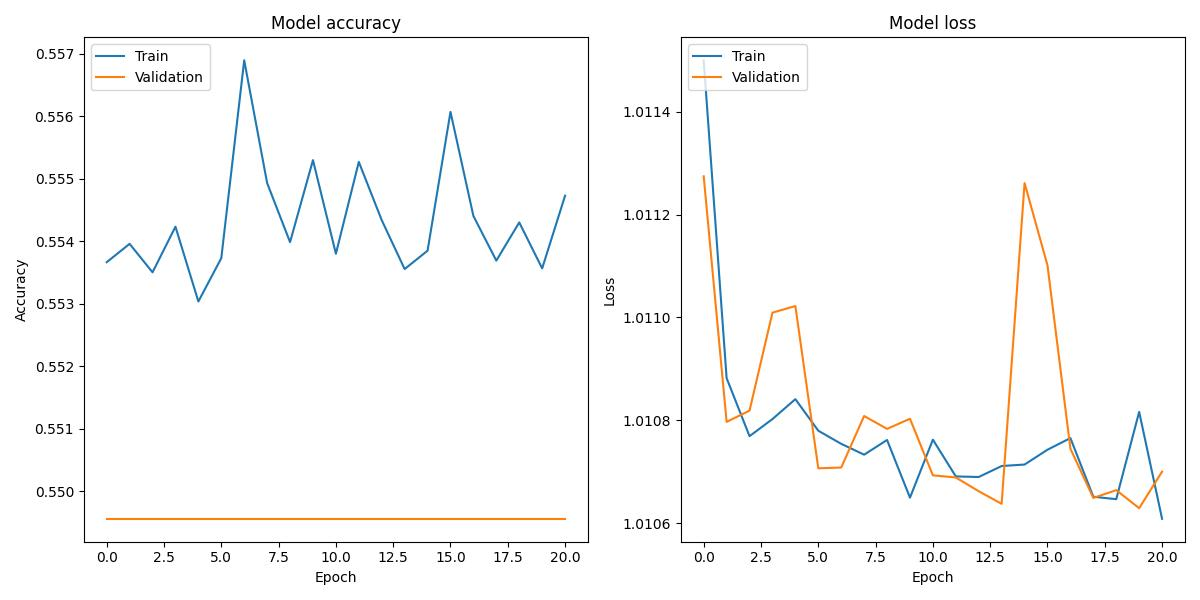
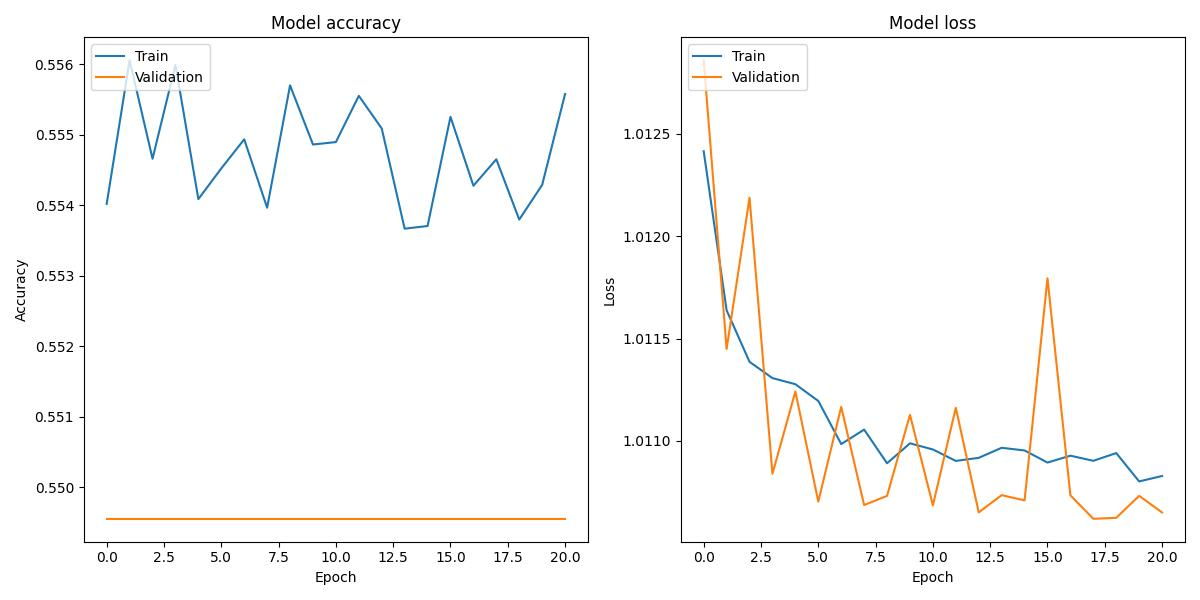
UGH

diff --git a/Assignment2/run_me/tuners.py b/Assignment2/run_me/tuners.py
@@ -4,6 +4,8 @@ from tensorflow.keras.optimizers import Adam, RMSprop
 from tensorflow.keras.losses import BinaryCrossentropy
 from tensorflow.keras.callbacks import ModelCheckpoint, EarlyStopping
 from tensorflow.keras.applications.vgg16 import VGG16
+from tensorflow.keras.callbacks import ReduceLROnPlateau
+from keras_tuner import Objective
 import tensorflow as tf
 import keras_tuner as kt
 import keras
@@ -38,8 +40,11 @@ def build_model(hp):
     vgg16 = VGG16(include_top = False, weights = 'imagenet', 
             input_shape = input_size)
     
-    for layer in vgg16.layers: # Freeze layers
+    for layer in vgg16.layers[:15]: # Freeze top 15 layers (leave 4)
         layer.trainable = False
+
+    for i, layer in enumerate(vgg16.layers):
+        print(i, layer.name, layer.trainable)
 
     # Encoder - VGG16
     vgg_outputs = [vgg16.get_layer(name).output for name in ['block1_conv2', 'block2_conv2', 'block3_conv3', 'block4_conv3', 'block5_conv3']]
@@ -52,6 +57,7 @@ def build_model(hp):
     up6 = Conv2DTranspose(512, 2, strides=(2, 2), padding='same')(bottleneck)
     merge6 = concatenate([c4, up6], axis=3)
     c6 = Conv2D(512, 3, activation='relu', padding='same')(merge6)
+    c6 = Dropout(0.5)(c6) #Adding dropout to see if this helps
     c6 = Conv2D(512, 3, activation='relu', padding='same')(c6)
 
     up7 = Conv2DTranspose(256, 2, strides=(2, 2), padding='same')(c6)
@@ -72,35 +78,30 @@ def build_model(hp):
     outputs = Conv2D(1, 1, activation = 'sigmoid')(c9)
 
     model = Model(inputs=vgg16.input, outputs=outputs)
-
-    lr = hp.Choice('learning_rate', values = [1e-2, 1e-3, 1e-4, 1e-5])
-
-    # model.compile(optimizer = Adam(learning_rate = lr), 
-    #             loss = bce_dice_loss, 
-    #             metrics = ['accuracy', dice_coeff])
-    # Tuner found the best learning rate: 0.01
-    # Average IoU: 0.18527531623840332, Average Dice: 0.18527531623840332     
     
-    # Testing out different optimizers...
-    model.compile(optimizer = RMSprop(learning_rate = lr), 
-                loss = bce_dice_loss, 
-                metrics = ['accuracy', dice_coeff])
 
+    # Done with model, compile now
+    lr = hp.Choice('learning_rate', values = [1e-3, 1e-4, 1e-5])
+
+    model.compile(optimizer = Adam(learning_rate = lr), 
+                loss = bce_dice_loss, 
+                metrics = [dice_coeff])
+    
     return model
 
 def unet(train_gen, val_gen, test_gen):
 
     tuner = kt.RandomSearch(build_model,
-                            objective = 'val_accuracy', 
+                            objective = Objective('val_dice_coeff', direction = "max"), 
                             max_trials = 10,
                             overwrite = True, # Needed to overwrite previous saves due to issues
                             directory = save_dir, 
                             project_name = 'Assignment2',
                             )
 
-    tuner.search(train_gen, epochs = 10, 
+    tuner.search(train_gen, epochs = 5, 
                 validation_data = val_gen, 
-                verbose = 1)
+                verbose = 2)
 
      # Correctly get the best model/hp and evaluate it
     best_hp = tuner.get_best_hyperparameters()[0]
@@ -109,16 +110,21 @@ def unet(train_gen, val_gen, test_gen):
 
     # Utilizing checkpoint for saving model and early stopping to minmize loss 
     checkpoint = ModelCheckpoint(filepath = model_checkpoint_path, 
-                                monitor='val_accuracy', 
+                                monitor='val_dice_coeff', 
                                 verbose=1, save_best_only=True, 
-                                save_weights_only=False, mode='auto', 
+                                save_weights_only=False, mode='max', 
                                 save_freq='epoch')
 
-    early = EarlyStopping(monitor='val_accuracy', patience = 20, 
-                        verbose=1, mode='auto')
+    early = EarlyStopping(monitor='val_dice_coeff', patience = 15, 
+                        verbose=1, mode='max')
+    
+    lr_scheduler = ReduceLROnPlateau(monitor='val_loss', factor=0.1, 
+                                     patience=10,
+                                     verbose = 1,
+                                     min_lr = 1e-6)
 
     history = best_model.fit(train_gen, validation_data = val_gen, 
-                        callbacks = [checkpoint, early], 
+                        callbacks = [checkpoint, early, lr_scheduler], 
                         epochs = 500,
                         verbose = 2)
 
@@ -128,6 +134,6 @@ def unet(train_gen, val_gen, test_gen):
         def print_to_file(text):
             print(text, file=f)
         best_model.summary(print_fn=lambda x: f.write(x + '\n'))
-        print_to_file(f"\nTuner found the best learning rate: {best_hp.get('learning_rate'):.2f}")
+        print_to_file(f"\nTuner found the best learning rate: {best_hp.get('learning_rate'):.4f}")
  
     return best_model, history
